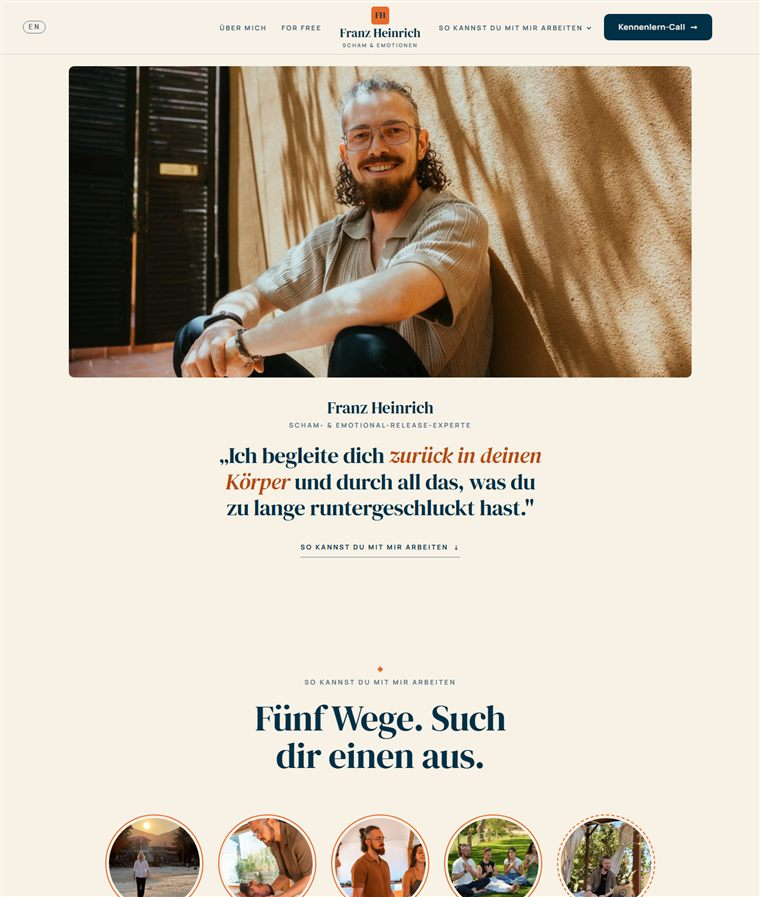
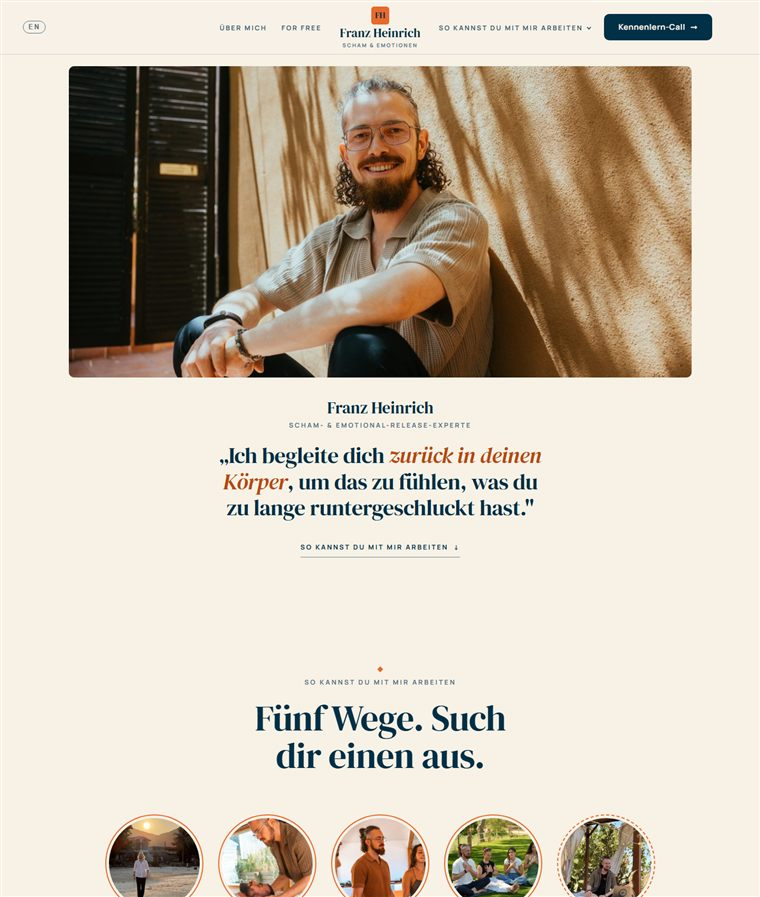
Kopf-Zitat neu: "... zurueck in deinen Koerper, um das zu fuehlen, was du zu lange runtergeschluckt hast." (DE + EN)

Changed region(s): [[0.2724, 0.5307, 0.7263, 0.5619]]

diff --git a/index.html b/index.html
@@ -28,7 +28,7 @@
 <title data-t="meta.title">Franz Heinrich — Scham-Coaching &amp; Neo Emotional Release</title>
 <meta name="description" content="Franz Heinrich begleitet Menschen durch Scham — körperorientiert mit Neo Emotional Release. 1:1-Sessions online und vor Ort, Workshops und Retreats. Start mit einem kostenlosen Kennenlern-Call.">
 <meta property="og:title" content="Franz Heinrich — Scham- & Emotional-Release-Experte">
-<meta property="og:description" content="„Ich begleite dich zurück in deinen Körper und durch all das, was du zu lange runtergeschluckt hast." 1:1, Workshops, Retreats.">
+<meta property="og:description" content="„Ich begleite dich zurück in deinen Körper, um das zu fühlen, was du zu lange runtergeschluckt hast." 1:1, Workshops, Retreats.">
 <meta property="og:type" content="website">
 <meta property="og:locale" content="de_DE">
 <meta property="og:image" content="assets/img/og-1200.jpg">
@@ -145,7 +145,7 @@
     <p class="kopf-name in-up" style="--d:.15s">Franz Heinrich</p>
     <p class="kopf-rolle in-up" style="--d:.25s" data-t="hero.role">Scham- &amp; Emotional-Release-Experte</p>
     <!-- HIER: Franz' Zitat — Wortlaut von Michael, 16.09. -->
-    <h1 class="in-up" style="--d:.4s" data-t="hero.h1">„Ich begleite dich <em>zurück in deinen Körper</em> und durch all das,
+    <h1 class="in-up" style="--d:.4s" data-t="hero.h1">„Ich begleite dich <em>zurück in deinen Körper</em>, um das zu fühlen,
       was du zu lange runtergeschluckt hast."</h1>
     <!-- Michael 16.09.: dezent und klein wie ursprünglich — Kapitälchen-Link statt Knopf -->
     <a class="tlink in-up" href="#arbeiten" style="--d:.55s"><b data-t="hero.cta">So kannst du mit mir arbeiten <span>↓</span></b></a>

diff --git a/assets/i18n-en.js b/assets/i18n-en.js
@@ -17,7 +17,7 @@ window.FH_EN = {
   "dd.frei.t": "Free", "dd.frei.s": "Podcast, handbook, newsletter",
 
   "hero.role": "Shame & Emotional Release Expert",
-  "hero.h1": "“I guide you <em>back into your body</em> and through everything you have swallowed for too long.”",
+  "hero.h1": "“I guide you <em>back into your body</em> to feel what you have swallowed for too long.”",
   "hero.cta": "Ways to work with me <span>↓</span>",
 
   "work.eyebrow": "Ways to work with me",
